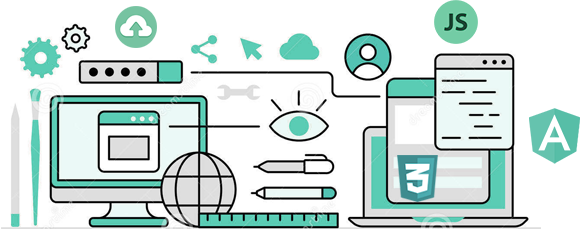
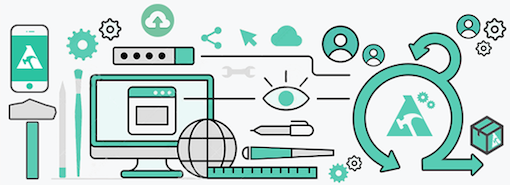
[Services] Nouvelles images qui sont plus jolies. Réquilibrage des colonnes : même largeur car les images font maintenant la même taille. Marge haute de l'accroche plus petite pour améliorer le visuel.

diff --git a/index.html b/index.html
@@ -156,7 +156,7 @@
                 <p>Nous pouvons intervenir sur le front-end ou le back-end.</p>
                 <p>Nous choisissons toujours la technologie d'un produit en fonction du besoin.</p>
             </div>
-            <div class="illustration"><img src="images/competences/developpements.png" alt="Illustration développements" /></div>
+            <div class="illustration"><img src="images/competences/developpement.png" alt="Illustration développements" /></div>
         </div>
         <div class="competence methodes">
             <p class="nom">MÉTHODES</p>

diff --git a/style/section-services.css b/style/section-services.css
@@ -1,5 +1,6 @@
 .section-services {
     min-height:745px;
+    padding-top: 95px;
 }
 .section-services .podium {
     flex-direction: row;
@@ -15,13 +16,7 @@
     align-items: center;
     height: 85%;
     flex-shrink: 0;
-}
-
-.section-services .podium .competence.developpements {
-    width: 40%;
-}
-.section-services .podium .competence.methodes {
-    width: 55%;
+    width:45%;
 }
 
 .section-services .podium .competence .nom {
